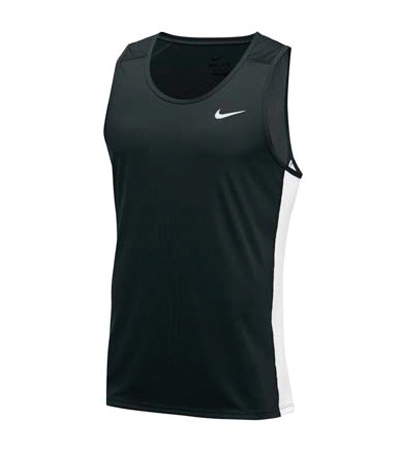
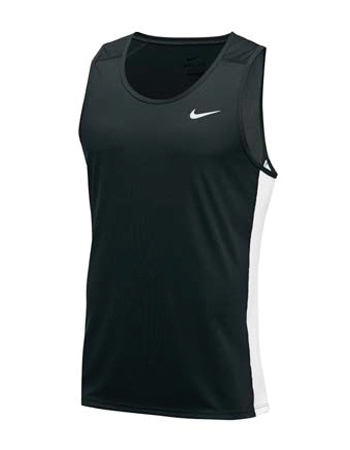
Updated store page code to use <Card> instead of <GridList>. Created new component named <StoreCard> instead of using <GridListTile>. Made changes to the photos as well to fit the new image size.

diff --git a/src/pages/ShopMen.js b/src/pages/ShopMen.js
@@ -7,7 +7,8 @@ import ChevronLeftIcon from '@material-ui/icons/ChevronLeft';
 import { ExpandMore, ExpandLess, ShoppingCart, Close } from '@material-ui/icons';
 import NavBar from "../components/NavBar";
 import Footer from "../components/Footer";
-import Filter from "../components/Filter"
+import Filter from "../components/Filter";
+import StoreCard from "../components/StoreCard"
 import menProduct1 from '../images/menProduct1.jpg';
 import menProduct2 from '../images/menProduct2.jpg';
 import menProduct3 from '../images/menProduct3.jpg';
@@ -39,43 +40,11 @@ const useStyles = (theme) => ({
         // border: "#000 5px solid",
         // backgroundColor: "#ff7800"
     },
-    cart: {
-        opacity: 0,
-        backgroundColor: "#fff",
-        color: "#000",
-        position: "absolute",
-        top: "25px",
-        left: "80%",
-        borderRadius: "25px",
-        padding: "10px",
-        transition: "opacity .2s",
-        border: "1.5px solid black",
-        "&:hover":{
-            backgroundColor: "#E8E8E8",
-        }
-    },
-    tile: {
-        position: "relative",
-        "&:hover":{
-            "& $cart": {
-                opacity: 1
-            },
-            "& $top": {
-                opacity: 1
-            },
-        }
-    },
-    bottom: {
-        position: "absolute",
-    },
-    top: {
-        opacity: 0,
-        transition: "opacity .2s",
-        position:"absolute",
-    },
     snack: {
-        background: "#000",
-        color: "#fff",
+        background: "#fff",
+        color: "#000",
+        fontFamily: "Barlow Condensed",
+        fontSize: "1.2em"
     },
     toolbar: theme.mixins.toolbar
 });
@@ -85,45 +54,81 @@ const imagesList = [
             id: 0,
             img1: menTile1,
             img2: menProduct1,
-            title1: "Tile 1 image",
-            title2: "Tile 1 product",
+            title: "Titans Hoodie",
             cols: 1,
             size: "Small",
             color: "Black",
-            price: "$50-$75",
+            price: "$50",
         },
         {
             id: 1,
             img1: menTile2,
             img2: menProduct2,
-            title1: "Tile 2 image",
-            title2: "Tile 2 product",
+            title: "Nike Tanktop",
             cols: 1,
             size: "Medium",
             color: "Gray",
-            price: "$0-$25",
+            price: "$10",
         },
         {
             id: 2,
             img1: menTile3,
             img2: menProduct3,
-            title1: "Tile 3 image",
-            title2: "Tile 3 product",
+            title: "Athleta Tanktop",
             cols: 1,
             size: "Large",
             color: "White",
-            price: "$0-$25",
+            price: "$15",
         },
         {
             id: 3,
             img1: menTile4,
             img2: menProduct4,
-            title1: "Tile 4 image",
-            title2: "Tile 4 product",
+            title: "Underarmour Shirt",
             cols: 1,
             size: "Extra Large",
             color: "Brown",
-            price: "$25-$50",
+            price: "$35",
+        },
+        {
+            id: 4,
+            img1: menTile4,
+            img2: menProduct4,
+            title: "Underarmour Shirt",
+            cols: 1,
+            size: "Extra Large",
+            color: "Brown",
+            price: "$35",
+        },
+        {
+            id: 5,
+            img1: menTile3,
+            img2: menProduct3,
+            title: "Athleta Tanktop",
+            cols: 1,
+            size: "Extra Large",
+            color: "Brown",
+            price: "$20",
+        },
+        {
+            id: 6,
+            img1: menTile2,
+            img2: menProduct2,
+            title: "Nike Tanktop",
+            cols: 1,
+            size: "Extra Large",
+            color: "Brown",
+            price: "$15",
+        },
+        {
+            id: 7,
+            img1: menTile1,
+            img2: menProduct1,
+            title: "Titans Hoodie",
+            cols: 1,
+            size: "Extra Large",
+            color: "Brown",
+            price: "$40",
         },
 ];
 
@@ -185,7 +190,7 @@ class ShopMen extends React.Component {
                     <div>
                         <Typography className={classes.title} align={"center"} variant={"h1"}>Men</Typography>
                     </div>
-                    <Grid container justify={"center"}>
+                    <Grid container justify={"flex-start"}>
                         <Grid item xs={2}>
                             <div className={classes.filters}>
                                 <Typography className={classes.subtitle} variant="h4">
@@ -202,19 +207,36 @@ class ShopMen extends React.Component {
                             </div>
                         </Grid>
 
-
-                        <Grid item xs>
-                            <GridList cols={4} cellHeight={450} spacing={20}>
+                        {/*<GridList cols={4} cellHeight={450} spacing={20}></GridList>*/}
+                        <Grid container justify={"space-evenly"} xs>
                             {this.state.images.map((tile) => (
-                                <GridListTile key={tile.img1} cols={tile.cols || 1} className={classes.tile}>
-                                    <div className={classes.tile}>
-                                        <img className={classes.bottom} src={tile.img1} alt={tile.title1} />
-                                        <img className={classes.top} src={tile.img2} alt={tile.title2} />
-                                        <Button onClick={this.handleClick} className={classes.cart}><ShoppingCart/></Button>
+                                <StoreCard key={tile.id} img1={tile.img1} img2={tile.img2} title={tile.title} price={tile.price} handleClick={this.handleClick}/>
+
+
+
+
+
+
+                                /*<GridListTile key={tile.img1} cols={tile.cols || 1} className={classes.tile}>
+                                    <div className={classes.innerTile}>
+                                        <div className={classes.images}>
+                                            <a href={"/"}>
+                                                <img className={classes.bottomImg} src={tile.img1} alt={tile.title} />
+                                                <img className={classes.topImg} src={tile.img2} alt={tile.title} />
+                                            </a>
+                                            <Button onClick={this.handleClick} className={classes.cart}><ShoppingCart/></Button>
+                                        </div>
+                                        <div className={classes.contentDiv}>
+                                                <Typography className={classes.content} variant={"h5"}>
+                                                    {tile.title}
+                                                </Typography>
+                                                <Typography className={classes.content} variant={"h6"}>
+                                                    {tile.price}
+                                                </Typography>
+                                        </div>
                                     </div>
-                                </GridListTile>
+                                </GridListTile>*/
                             ))}
-                            </GridList>
                         </Grid>
                     </Grid>
                     <Snackbar

diff --git a/src/components/StoreCard.js b/src/components/StoreCard.js
@@ -1,0 +1,97 @@
+import React from 'react';
+import '../App.css';
+import { withStyles } from '@material-ui/core/styles';
+import { Typography, Grid, Card, CardContent, CardMedia, Button } from '@material-ui/core';
+import { ShoppingCart } from '@material-ui/icons';
+
+
+const useStyles = (theme) => ({
+    root: {
+        flexGrow: 1,
+    },
+    tile: {
+        marginTop: "25px",
+        height: "550px",
+        width: "350px",
+        "&:hover":{
+            "& $cart": {
+                opacity: 1
+            },
+            "& $topImg": {
+                opacity: 1
+            },
+        }
+    },
+    bottomImg: {
+        borderRadius: "5px 5px 0px 0px",
+        position: "absolute",
+    },
+    topImg: {
+        borderRadius: "5px 5px 0px 0px",
+        opacity: 0,
+        transition: "opacity .2s",
+        position:"absolute",
+    },
+    contentDiv: {
+        position: "relative",
+        color: "#000",
+        height: "50px",
+        top: "71%"
+    },
+    content: {
+        margin: "10px",
+        fontFamily: "Bebas Neue",
+    },
+    cart: {
+        opacity: 0,
+        backgroundColor: "#fff",
+        color: "#000",
+        position: "relative",
+        top: "25px",
+        left: "80%",
+        borderRadius: "25px",
+        padding: "10px",
+        transition: "opacity .2s",
+        border: "1.5px solid black",
+        "&:hover":{
+            backgroundColor: "#E8E8E8",
+        }
+    },
+});
+
+class StoreCard extends React.Component {
+
+    constructor(props) {
+        super(props)
+        this.state = {
+            open: false
+        }
+    }
+
+    render(){
+        const { classes } = this.props;
+        return (
+            <Grid item xs>
+                <Card className={classes.tile} elevation={5}>
+                    <CardMedia>
+                        <a href={"/"}>
+                            <img className={classes.bottomImg} src={this.props.img1} alt={this.props.title} />
+                            <img className={classes.topImg} src={this.props.img2} alt={this.props.title} />
+                        </a>
+                        <Button onClick={this.props.handleClick} className={classes.cart}><ShoppingCart/></Button>
+                    </CardMedia>
+                    <CardContent className={classes.contentDiv}>
+                        <Typography className={classes.content} variant={"h5"}>
+                            {this.props.title}
+                        </Typography>
+                        <Typography className={classes.content} variant={"h6"}>
+                            {this.props.price}
+                        </Typography>
+                    </CardContent>
+                </Card>
+            </Grid>
+        );
+    }
+}
+
+export default withStyles(useStyles)(StoreCard);
